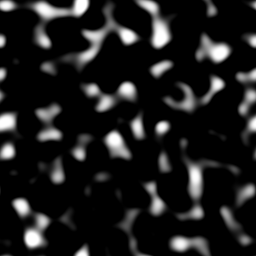
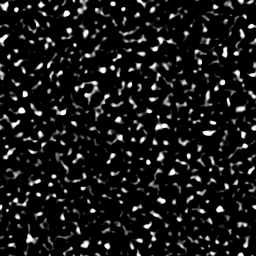
Stabilize world shadow coverage and refine underwater shafts

diff --git a/tools/render_regression.py b/tools/render_regression.py
@@ -16,7 +16,7 @@ project=editor.open_project(ROOT,start_if_needed=False)
 g=project.build_and_run(focus=False,timeout=180)
 def v(x,y,z):return dict(x=x,y=y,z=z)
 def capture(name,pose,mode=0):
- g.command('mermaid.capture',pose);g.command('mermaid.lighting',dict(mode=mode));g.wait_frames(5)
+ g.command('mermaid.capture',pose);g.command('mermaid.lighting',dict(mode=mode,static_only=6<=mode<=9));g.wait_frames(5)
  path=args.output/(name+'.png');path.write_bytes(g.screenshot(after_frames=2).read_bytes())
  return np.asarray(Image.open(path).convert('RGB'))
 try:
@@ -56,13 +56,28 @@ try:
  capture('rays',dict(camera=v(0,7,13),look=v(11,27,-44)))
  capture('rays-offset',dict(position=v(1,4.8,4),camera=v(2,7,13),look=v(13,27,-44)))
  capture('sun',dict(camera=v(-.4,7,13),look=v(16,50,0)))
+ for mode in (0,-1,7):
+  capture(f'columns-{mode}',dict(camera=v(20,27,-25),look=v(40,36,-67)),mode)
+ # The far cache omits the character; compare static scenery separately so her
+ # detailed local shadow does not hide a broken static-map transition.
+ for name,pose in {
+  'back':dict(position=v(.4,4.8,-18.2),camera=v(6.15,9.92,-24.43),look=v(-10,-.75,-6.65)),
+  'right':dict(position=v(14,3,-15),camera=v(18,7,-8),look=v(9,-3,-22)),
+  'left':dict(position=v(-8,3,-12),camera=v(-3,9,-5),look=v(-14,-3,-22)),
+ }.items():
+  channels={mode:capture(f'coverage-{name}-{mode}',pose,mode)[...,0]/255 for mode in (0,6,7,9,12)}
+  near,far,weight,sand=(channels[mode] for mode in (6,7,9,12))
+  ground=(weight>.99)&(sand>.99)
+  assert ground.sum()>1000,'Coverage fixture has no ground'
+  disagreement=((near<.1)&(far>.9))|((near>.9)&(far<.1))
+  results[f'{name}_ground_interior_disagreement']=float(disagreement[ground].mean())
  (args.output/'results.json').write_text(json.dumps(results,indent=2)+'\n')
  print(json.dumps(results,indent=2),flush=True)
  if not args.baseline:
   assert results['column_open_edges']==0,('Column mesh has holes',results)
   assert min(results[f'pass_overlap_time_{t}'] for t in (3,7))>.995,('Visible and shadow geometry differ',results)
   assert results['visible_actor_pixels_moved']==0,('Environmental actors still animate in the shader',results)
-  assert max(results[f'{view}_ground_interior_disagreement'] for view in ('wide','close'))<.001,('Near/far shadow interiors disagree',results)
+  assert max(results[f'{view}_ground_interior_disagreement'] for view in ('wide','close','back','right','left'))<.001,('Near/far shadow interiors disagree',results)
 finally:
  g.command('mermaid.lighting',dict(mode=0));g.command('mermaid.capture',{})
  if args.keep_running:g.command('mermaid.resume',{});g.close()

diff --git a/tools/water_patterns.py b/tools/water_patterns.py
@@ -50,9 +50,9 @@ def sunlight_aperture(size=256):
     field=rng.normal(size=(size,size))
     fy=np.fft.fftfreq(size)[:,None];fx=np.fft.fftfreq(size)[None,:]
     frequency=np.sqrt(fx*fx+fy*fy)
-    band=np.exp(-(frequency/.036)**2)*(1-np.exp(-(frequency/.012)**2))
+    band=np.exp(-(frequency/.12)**2)*(1-np.exp(-(frequency/.04)**2))
     field=np.fft.ifft2(np.fft.fft2(field)*band).real
     field/=field.std()
-    peaks=np.clip((field-.25)/2.1,0,1)
+    peaks=np.clip((field-.45)/2.0,0,1)
     peaks=peaks*peaks*(3-2*peaks)
     return np.uint8(peaks*255)

diff --git a/README.md b/README.md
@@ -133,3 +133,13 @@ Verified native 1280×720 framebuffer A/B: no MSAA measured 39.52ms mean / 88.38
 Native close-view captures, boosted boulder contact and all 16 image/structure tests pass. Evidence: `artifacts/sampling/msaa4/`. Earlier window-only MSAA comparisons above predate this fix.
 
 Final WebGL startup confirms `SCENE_AA FXAA`, with no graphics/render warnings or errors (only the expected unavailable debug HTTP bridge). The saved 1280×720 frozen capture measured 15.3 FPS, 65.3ms mean / 117.7ms p95 over 600 RAF samples. The scene remains below 30 FPS on HD530. Evidence: `artifacts/sampling/browser/`.
+
+## Camera-independent sunlight and closer ray detail
+
+The remaining lintel/column edge marks were shadow reception artifacts, separate from the previously closed mesh holes. Closed stone now casts its back surface consistently in both maps (front-face culling); thin actors remain two-sided. The distant PCF uses high-precision coordinates and caster slope bias instead of extrapolating receiver planes across bevel silhouettes. This removes the repeated triangular edge pattern without increasing per-pixel shadow taps.
+
+The distant map previously followed the camera with a fixed -Z offset, so turning could expose its boundary. It is now a cached 2048² full-world static map covering 192m, with the character's changing shadow handled by the existing 24m local EVSM map. Static actors currently do not move. Future currents/crowd simulation must invalidate the cache using `shadow_dirty` when those actors change. This trades additional texture memory for removing the repeated distant caster pass. It is a world cache plus a local detail cascade, not camera-frustum CSM splits.
+
+Photo study: [Dave Fleetham's underwater sunlight photograph](https://pixels.com/featured/sunlight-below-ocean-surface-dave-fleetham.html) and the Getty underwater photograph in [Popular Mechanics](https://www.popularmechanics.com/science/environment/a25781337/ocean-colder-climate-change-little-ice-age/). The visual takeaway is fine shafts within broad illumination, with uneven spacing and a bright surface source. The aperture now has finer isolated peaks and lower energy. Four small aperture quadrature taps filter along each integration interval instead of smearing the whole interval isotropically; no extra shadow samples or full-resolution pass were added. Depth broadening is smaller. Rays remain an artistic, world-space single-scattering approximation.
+
+Expanded native regression passes at forward/backward/side swimming views: static fully lit/umbra disagreements between maps are 0–0.0023% of tested ground pixels. The static comparison excludes the character from casting, since the world cache intentionally omits her. Actor visible/shadow overlap is 99.998%, and rigid actors move zero pixels between times 3 and 7. Normal, shadow-disabled and far-shadow column captures are retained for inspection. Evidence: `artifacts/remaining-artifacts/regression/`, `lighting-final/`.
